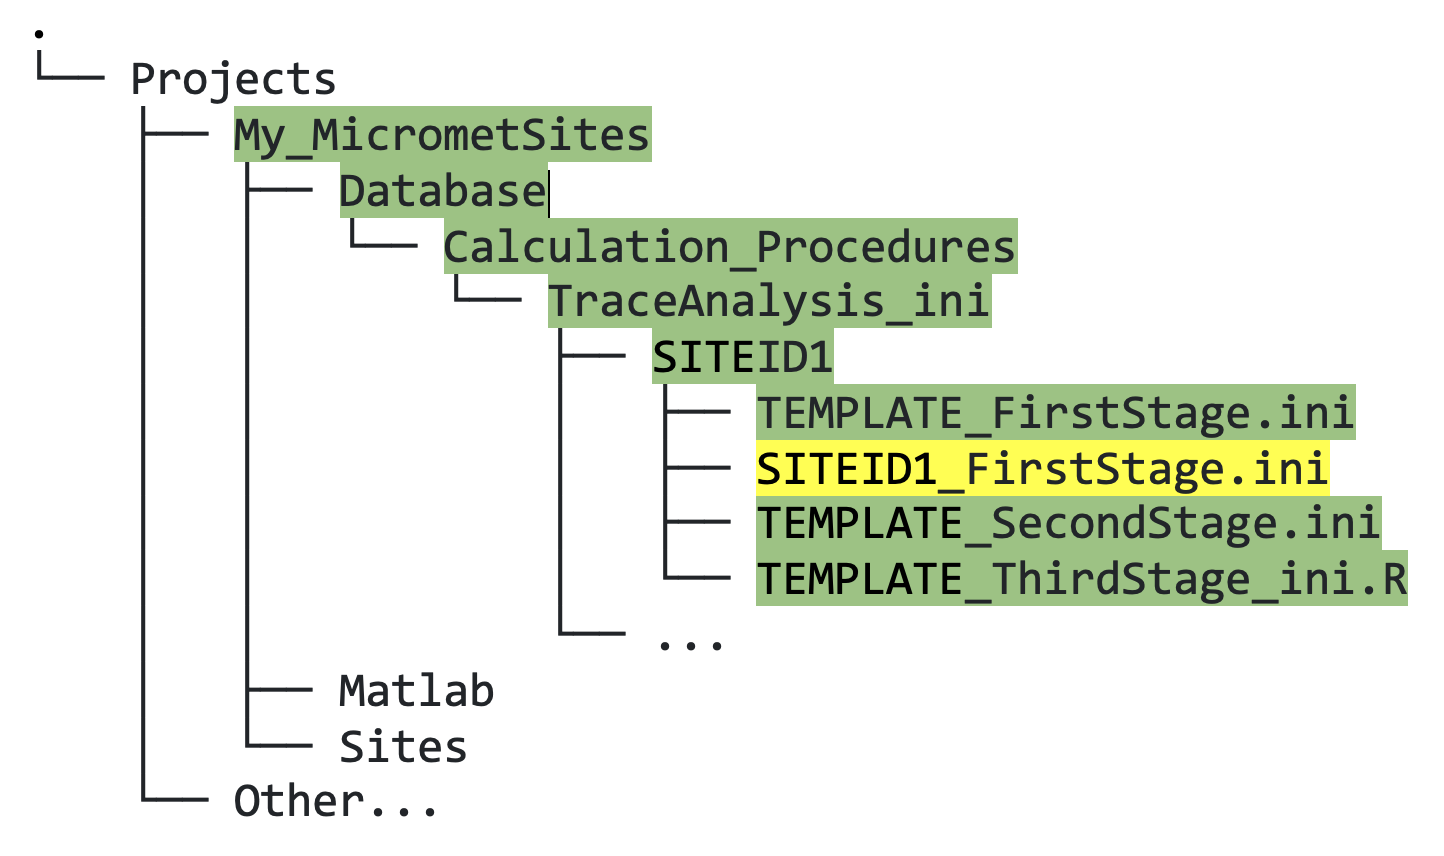
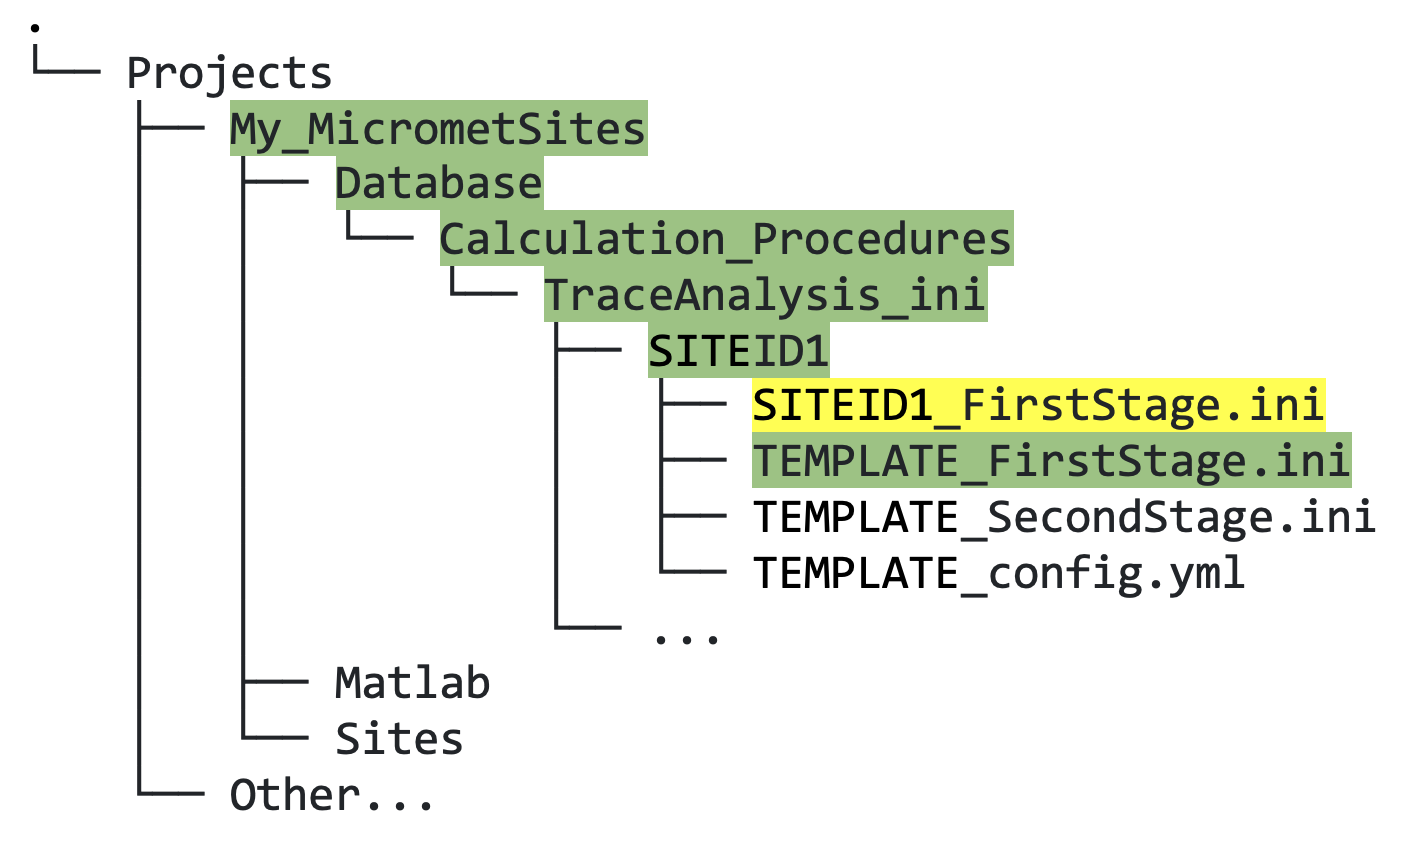
Added third stage quick start; other minor edits

Changed region(s): [[0.0, 0.0304, 0.9815, 0.972], [0.276, 0.9416, 0.3067, 0.972]]

diff --git a/6.3_Quick_Start_Third_Stage_Cleaning_And_Ameriflux_Output.md b/6.3_Quick_Start_Third_Stage_Cleaning_And_Ameriflux_Output.md
@@ -1,15 +1,33 @@
 ## 6.3. &nbsp; Quick Start: Third Stage Cleaning and Converting to Ameriflux Output
 
-[XXX In Progress]
+The third stage cleaning requires the least amount of work by the user, but is usually the most computationally intensive stage, as it includes running models for gap-filling fluxes. Again, the following example assumes you have already completed first and second stage cleaning for one site.
 
-Once you have set up the relevant configuration files and your third stage INI, test it using the following Matlab command:
-`fr_automated_cleaning(yearIn,siteID,[1 2 7])`.
+1. Make a copy of the `TEMPLATE_config.yml` file that we provided (figure 6.5) and rename the copy with your site ID. 
 
-Alternatively, if you already ran the first and second stages, you can simply run: `fr_automated_cleaning(yearIn,siteID,7)`. Note that the third stage is typically more computationally expensive than stages one and two.
+    <img src="images/directory_trees/DirectoryTree6c_short.jpg" alt="DirectoryTree:MatlabDirectory" width="350"/>
 
-#### *Output to Ameriflux CSV file*
+    *Figure 6.5. Directory tree showing location of third stage custom YAML file that must be copied (green highlighted text) and edited (yellow highlighted text).*
+
+2. At the top of your site-specific file, input the site ID, the year that measurements at the site began, and the metadata for your site (figure 6.6; yellow highlighted text):
+
+    <img src="images/ini_files/ini_example3.jpg" alt="DirectoryTree:MatlabDirectory" width="500"/>
+
+    *Figure 6.6. Third stage site-specific custom YAML file showing which fields to edit in yellow highlighted text.*
+
+    The main configuration file (`global_config.yml`) for running third stage cleaning is located in the `TraceAnalysis_ini` directory, and generally speaking this should not be edited (see section 6.6 for more information on adding custom configuration).
+
+3. Next, test the third stage data cleaning in Matlab; remember that it can take a lot longer to run than first and second stages. Note that the cleaning stage argument for third stage cleaning is `7` (*not* 3; this is a legacy artifact), as follows:
+    ```
+    fr_automated_cleaning(yearIn,siteID,7)  % third stage
+    ```
+
+### Output your data to an Ameriflux CSV file
 Finally, once you have inspected your clean data and are happy with your INI files, you can output the data to a CSV file formatted for submission to Ameriflux:
-`fr_automated_cleaning(yearIn,SITEID,[1 2 7 8])`.
+```
+fr_automated_cleaning(yearIn,SITEID,8)  % Ameriflux CSV output
+```
 
-In case you do not want/need to rerun the cleaning (the third stage can be computationally expensive), simply:
-`fr_automated_cleaning(yearIn,SITEID,8)`.
+Finally, you can run all stages at once (or a subset, provided the previous stages to the subset have already been run):
+```
+fr_automated_cleaning(yearIn,SITEID,[1 2 7 8])  % all three stages plus Ameriflux output
+```

diff --git a/6.2_Quick_Start_Create_Second_Stage_INI_File.md b/6.2_Quick_Start_Create_Second_Stage_INI_File.md
@@ -27,4 +27,4 @@ Example: the `TA_1_1_1` trace you defined in the first stage has some missing da
 ```
 Evaluate = 'TA_1_1_1 = calc_avg_trace(clean_tv,TA_1_1_1,TA_ECCC,-1)';
 ```
-The function regresses the two variables provided and uses the resulting linear fit to fill the gap(s) in the first variable. For more details on this see the full documentation section 6.5 [XXX link]. Note that fluxes are gap-filled in stage three. 
+The function regresses the two variables provided and uses the resulting linear fit to fill the gap(s) in the first variable. For more details on second stage cleaning see the full documentation section 6.5 [XXX link]. Note that fluxes are gap-filled in stage three. 
